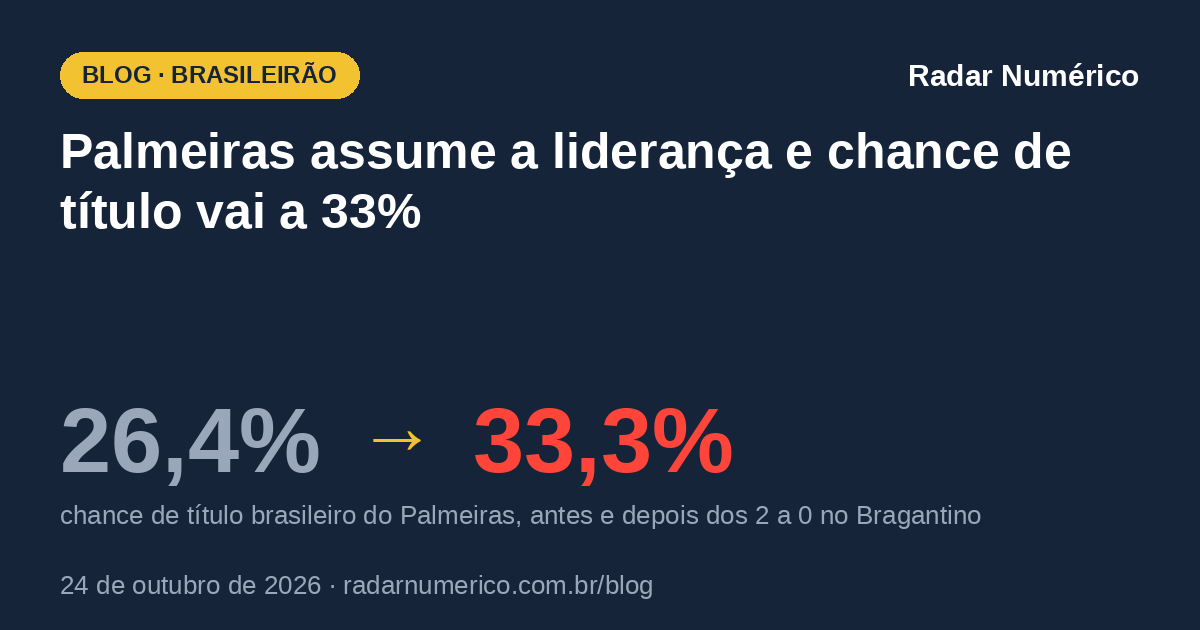
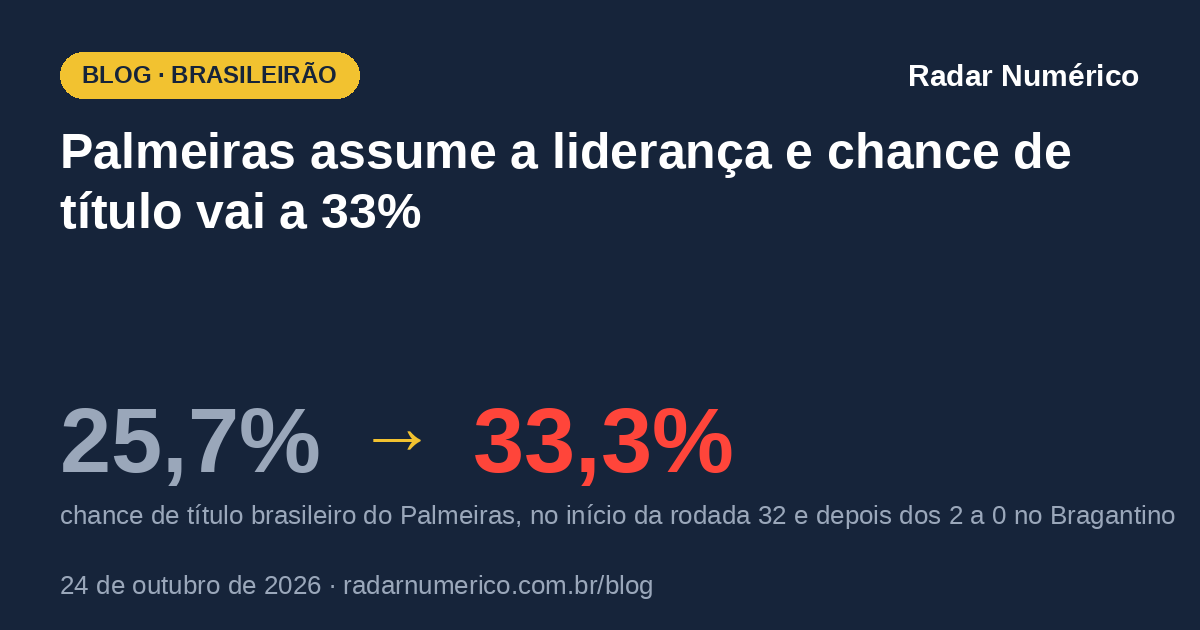
Blog: artigo Palmeiras compara com o inicio da rodada 32

Changed region(s): [[0.4317, 0.7841, 0.9867, 0.8444], [0.1542, 0.6333, 0.2158, 0.754], [0.0925, 0.6333, 0.1233, 0.754]]

diff --git a/blog/brasileirao/palmeiras-titulo-brasileirao/index.html b/blog/brasileirao/palmeiras-titulo-brasileirao/index.html
@@ -5,19 +5,19 @@
 <meta name="viewport" content="width=device-width, initial-scale=1">
 <meta name="robots" content="max-image-preview:large">
 <title>Palmeiras vence, assume a liderança e chance de título vai a 33%</title>
-<meta name="description" content="Palmeiras 2x0 Bragantino: chance de título vai de 26,4% para 33,3% e a de tríplice coroa, de 8,6% para 10,8%. O peso dos próximos jogos.">
+<meta name="description" content="Palmeiras 2x0 Bragantino: chance de título vai de 25,7% para 33,3% e a de tríplice coroa, de 8,4% para 10,8%. O peso dos próximos jogos.">
 <link rel="canonical" href="https://radarnumerico.com.br/blog/brasileirao/palmeiras-titulo-brasileirao/">
 <meta property="og:type" content="article">
 <meta property="og:site_name" content="Radar Numérico">
 <meta property="og:locale" content="pt_BR">
 <meta property="og:title" content="Palmeiras vence, assume a liderança e chance de título vai a 33%">
-<meta property="og:description" content="Palmeiras 2x0 Bragantino: chance de título vai de 26,4% para 33,3% e a de tríplice coroa, de 8,6% para 10,8%. O peso dos próximos jogos.">
+<meta property="og:description" content="Palmeiras 2x0 Bragantino: chance de título vai de 25,7% para 33,3% e a de tríplice coroa, de 8,4% para 10,8%. O peso dos próximos jogos.">
 <meta property="og:url" content="https://radarnumerico.com.br/blog/brasileirao/palmeiras-titulo-brasileirao/">
 <meta property="og:image" content="https://radarnumerico.com.br/blog/brasileirao/palmeiras-titulo-brasileirao/og.png">
 <meta property="og:image:width" content="1200">
 <meta property="og:image:height" content="630">
 <meta name="twitter:card" content="summary_large_image">
-<script type="application/ld+json">{"@context": "https://schema.org", "@type": "NewsArticle", "headline": "Palmeiras vence, assume a liderança e chance de título vai a 33%", "description": "Palmeiras 2x0 Bragantino: chance de título vai de 26,4% para 33,3% e a de tríplice coroa, de 8,6% para 10,8%. O peso dos próximos jogos.", "inLanguage": "pt-BR", "datePublished": "2026-10-24T21:40:00-03:00", "dateModified": "2026-10-24T21:40:00-03:00", "author": {"@type": "Organization", "name": "Radar Numérico", "url": "https://radarnumerico.com.br/"}, "publisher": {"@type": "Organization", "name": "Radar Numérico", "url": "https://radarnumerico.com.br/", "logo": {"@type": "ImageObject", "url": "https://radarnumerico.com.br/logo.png"}}, "mainEntityOfPage": "https://radarnumerico.com.br/blog/brasileirao/palmeiras-titulo-brasileirao/", "image": ["https://radarnumerico.com.br/blog/brasileirao/palmeiras-titulo-brasileirao/og.png"], "articleSection": "Brasileirão", "isPartOf": {"@type": "Blog", "name": "Blog do Radar Numérico", "url": "https://radarnumerico.com.br/blog/"}}</script>
+<script type="application/ld+json">{"@context": "https://schema.org", "@type": "NewsArticle", "headline": "Palmeiras vence, assume a liderança e chance de título vai a 33%", "description": "Palmeiras 2x0 Bragantino: chance de título vai de 25,7% para 33,3% e a de tríplice coroa, de 8,4% para 10,8%. O peso dos próximos jogos.", "inLanguage": "pt-BR", "datePublished": "2026-10-24T21:40:00-03:00", "dateModified": "2026-10-24T21:40:00-03:00", "author": {"@type": "Organization", "name": "Radar Numérico", "url": "https://radarnumerico.com.br/"}, "publisher": {"@type": "Organization", "name": "Radar Numérico", "url": "https://radarnumerico.com.br/", "logo": {"@type": "ImageObject", "url": "https://radarnumerico.com.br/logo.png"}}, "mainEntityOfPage": "https://radarnumerico.com.br/blog/brasileirao/palmeiras-titulo-brasileirao/", "image": ["https://radarnumerico.com.br/blog/brasileirao/palmeiras-titulo-brasileirao/og.png"], "articleSection": "Brasileirão", "isPartOf": {"@type": "Blog", "name": "Blog do Radar Numérico", "url": "https://radarnumerico.com.br/blog/"}}</script>
 <link rel="icon" type="image/png" href="/favicon.png">
 <link rel="apple-touch-icon" href="/apple-touch-icon.png">
 <link rel="preconnect" href="https://fonts.googleapis.com">
@@ -97,11 +97,11 @@ svg.pos .p1,.legenda i.p1{fill:var(--azul);background:var(--azul)}svg.pos .g6,.l
 <article>
 <div class="kicker"><a href="/blog/">Blog</a> · <a href="/blog/#brasileirao">Brasileirão</a></div>
 <h1>Palmeiras vence, assume a liderança e chance de título vai a 33%</h1>
-<p class="sub">Os 2 a 0 sobre o Bragantino levaram o Palmeiras de 26,4% para 33,3% de chance de título. A tríplice coroa subiu de 8,6% para 10,8%. Flamengo × Atlético-MG, na segunda, ainda mexe na conta.</p>
+<p class="sub">Com os 2 a 0 sobre o Bragantino, a chance de título do Palmeiras foi de 25,7%, no início da rodada, para 33,3%. A tríplice coroa subiu de 8,4% para 10,8%. Flamengo × Atlético-MG, na segunda, ainda mexe na conta.</p>
 <div class="byline"><span>Por <b>Equipe Radar Numérico</b></span><span>24 de outubro de 2026 às 21h40</span><span>Rodada 32</span></div>
 <p>O Palmeiras venceu o Bragantino por 2 a 0 em Barueri, na noite deste sábado (24/10), pela 32ª rodada, com gols de Maurício, de pênalti, no fim do primeiro tempo, e de Giay, no segundo. Com 69 pontos, assumiu a liderança do Brasileirão, dois pontos à frente do Flamengo, que tem um jogo a menos.</p>
-<p>Pelo modelo do Radar Numérico, a chance de título do Palmeiras subiu de 26,4% para <strong>33,3%</strong>. O Flamengo continua favorito, mas caiu de 73,6% para 66,7%.</p>
-<figure class="graf"><figcaption><b>Chance de título antes e depois de Palmeiras 2×0 Bragantino</b><span>Barra clara: antes · barra escura: depois. Só quem tem chance matemática relevante.</span></figcaption><div class="barras dupla pos"><div class="nome"><small>2º</small><span class="esc"><i style="background:#C3002F;color:#fff;border-color:#111111">FLA</i></span>Flamengo</div><div class="trilhos"><div class="trilho"><div class="fill antes" style="width:73.6%"></div></div><div class="trilho"><div class="fill" style="width:66.7%"></div></div></div><div class="val"><small>73,6%</small>66,7%<span class="chip ruim">−6,8 p.p.</span></div><div class="nome"><small>1º</small><span class="esc"><i style="background:#006437;color:#fff;border-color:#FFFFFF">PAL</i></span>Palmeiras</div><div class="trilhos"><div class="trilho"><div class="fill antes" style="width:26.4%"></div></div><div class="trilho"><div class="fill" style="width:33.3%"></div></div></div><div class="val"><small>26,4%</small>33,3%<span class="chip bom">+6,8 p.p.</span></div></div></figure>
+<p>Pelo modelo do Radar Numérico, a chance de título do Palmeiras subiu de 25,7%, no início da rodada, para <strong>33,3%</strong>. O Flamengo continua favorito, mas caiu de 74,3% para 66,7%.</p>
+<figure class="graf"><figcaption><b>Chance de título no início da rodada 32 e agora</b><span>Barra clara: antes da rodada 32 · barra escura: atualização de 24/10 às 20h55. Só quem tem chance matemática relevante.</span></figcaption><div class="barras dupla pos"><div class="nome"><small>2º</small><span class="esc"><i style="background:#C3002F;color:#fff;border-color:#111111">FLA</i></span>Flamengo</div><div class="trilhos"><div class="trilho"><div class="fill antes" style="width:74.3%"></div></div><div class="trilho"><div class="fill" style="width:66.7%"></div></div></div><div class="val"><small>74,3%</small>66,7%<span class="chip ruim">−7,5 p.p.</span></div><div class="nome"><small>1º</small><span class="esc"><i style="background:#006437;color:#fff;border-color:#FFFFFF">PAL</i></span>Palmeiras</div><div class="trilhos"><div class="trilho"><div class="fill antes" style="width:25.7%"></div></div><div class="trilho"><div class="fill" style="width:33.3%"></div></div></div><div class="val"><small>25,7%</small>33,3%<span class="chip bom">+7,5 p.p.</span></div></div></figure>
 
 <h2>Por que o líder não é o favorito</h2>
 <p>Estar na frente não basta para virar favorito, por dois motivos. O primeiro é o jogo a menos: o Flamengo recebe o Atlético-MG na segunda-feira (26/10) e, se vencer, volta à ponta com um ponto de vantagem. O segundo é a força: o algoritmo do Radar vê o Flamengo como o time mais forte do país, e isso pesa nos seis jogos que cada um ainda tem. A pontuação média projetada é de 81,7 pontos para o Flamengo e de 80,1 para o Palmeiras.</p>
@@ -122,7 +122,7 @@ svg.pos .p1,.legenda i.p1{fill:var(--azul);background:var(--azul)}svg.pos .g6,.l
 
 <h2>A tríplice coroa ficou mais perto</h2>
 <p>O Palmeiras é o único clube do país ainda vivo nas três maiores disputas do ano: é finalista da Libertadores, contra o Estudiantes, em 28/11, e semifinalista da Copa do Brasil. Nas simulações das copas, ganha a Libertadores em 68,3% das vezes e a Copa do Brasil em 47,7%. Esses números não mudaram hoje. O que mudou foi o Brasileirão.</p>
-<p>Com isso, a chance de ganhar os três títulos subiu de 8,6% antes do jogo para <strong>10,8%</strong>. Hoje de manhã, no nosso <a href="/blog/brasileirao/palmeiras-triplice-coroa/">artigo sobre a tríplice coroa</a>, eram 8,4%. A chance de ganhar Brasileirão e Libertadores juntos passou de 18,1% para 22,7%, e a de terminar o ano com pelo menos um título é de 88,9%.</p>
+<p>Com isso, a chance de ganhar os três títulos subiu de 8,4% no início da rodada, o número do nosso <a href="/blog/brasileirao/palmeiras-triplice-coroa/">artigo sobre a tríplice coroa</a> de hoje de manhã, para <strong>10,8%</strong>. A chance de ganhar Brasileirão e Libertadores juntos passou de 17,6% para 22,7%, e a de terminar o ano com pelo menos um título é de 88,9%.</p>
 <figure class="graf"><figcaption><b>Quantos títulos o Palmeiras ganha em 2026</b><span>Em cima, a chance de cada título. Embaixo, em azul, quantos títulos o time ganha; em amarelo, as combinações exatas que formam cada total.</span></figcaption><div class="tiles3"><div class="tt"><div class="k">Brasileirão</div><div class="v">33,3%</div></div><div class="tt"><div class="k">Libertadores</div><div class="v">68,3%</div></div><div class="tt"><div class="k">Copa do Brasil</div><div class="v">47,7%</div></div></div><div class="barras tri"><div class="nome ag">Os 3 títulos</div><div class="trilho"><div class="fill ag" style="width:21.9%"></div></div><div class="val ag">10,8%</div><div class="nome ag">Pelo menos dois títulos</div><div class="trilho"><div class="fill ag" style="width:100.0%"></div></div><div class="val ag">49,5%</div><div class="nome sub">Só Libertadores e Copa do Brasil</div><div class="trilho"><div class="fill sub" style="width:43.9%"></div></div><div class="val sub">21,7%</div><div class="nome sub">Só Brasileirão e Libertadores</div><div class="trilho"><div class="fill sub" style="width:24.1%"></div></div><div class="val sub">11,9%</div><div class="nome sub">Só Brasileirão e Copa do Brasil</div><div class="trilho"><div class="fill sub" style="width:10.1%"></div></div><div class="val sub">5,0%</div><div class="nome ag">Um título só</div><div class="trilho"><div class="fill ag" style="width:79.7%"></div></div><div class="val ag">39,5%</div><div class="nome sub">Só Libertadores</div><div class="trilho"><div class="fill sub" style="width:48.2%"></div></div><div class="val sub">23,9%</div><div class="nome sub">Só Copa do Brasil</div><div class="trilho"><div class="fill sub" style="width:20.3%"></div></div><div class="val sub">10,1%</div><div class="nome sub">Só Brasileirão</div><div class="trilho"><div class="fill sub" style="width:11.1%"></div></div><div class="val sub">5,5%</div><div class="nome zero">Nenhum título</div><div class="trilho"><div class="fill zero" style="width:22.4%"></div></div><div class="val zero">11,1%</div></div></figure>
 
 <h2>O que vem pela frente</h2>
